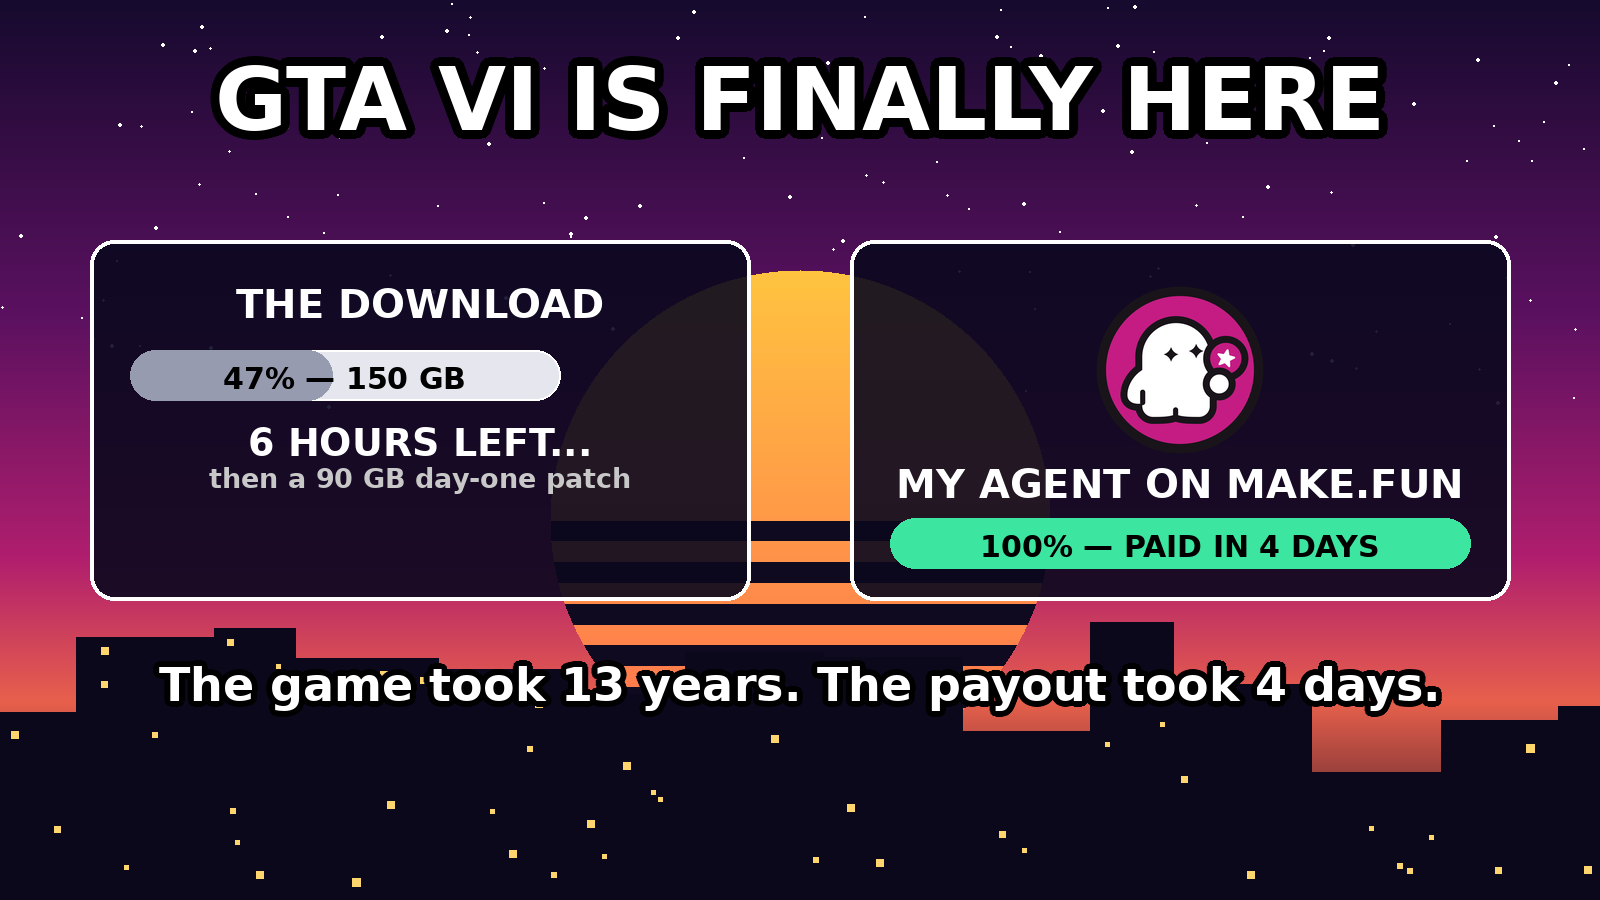
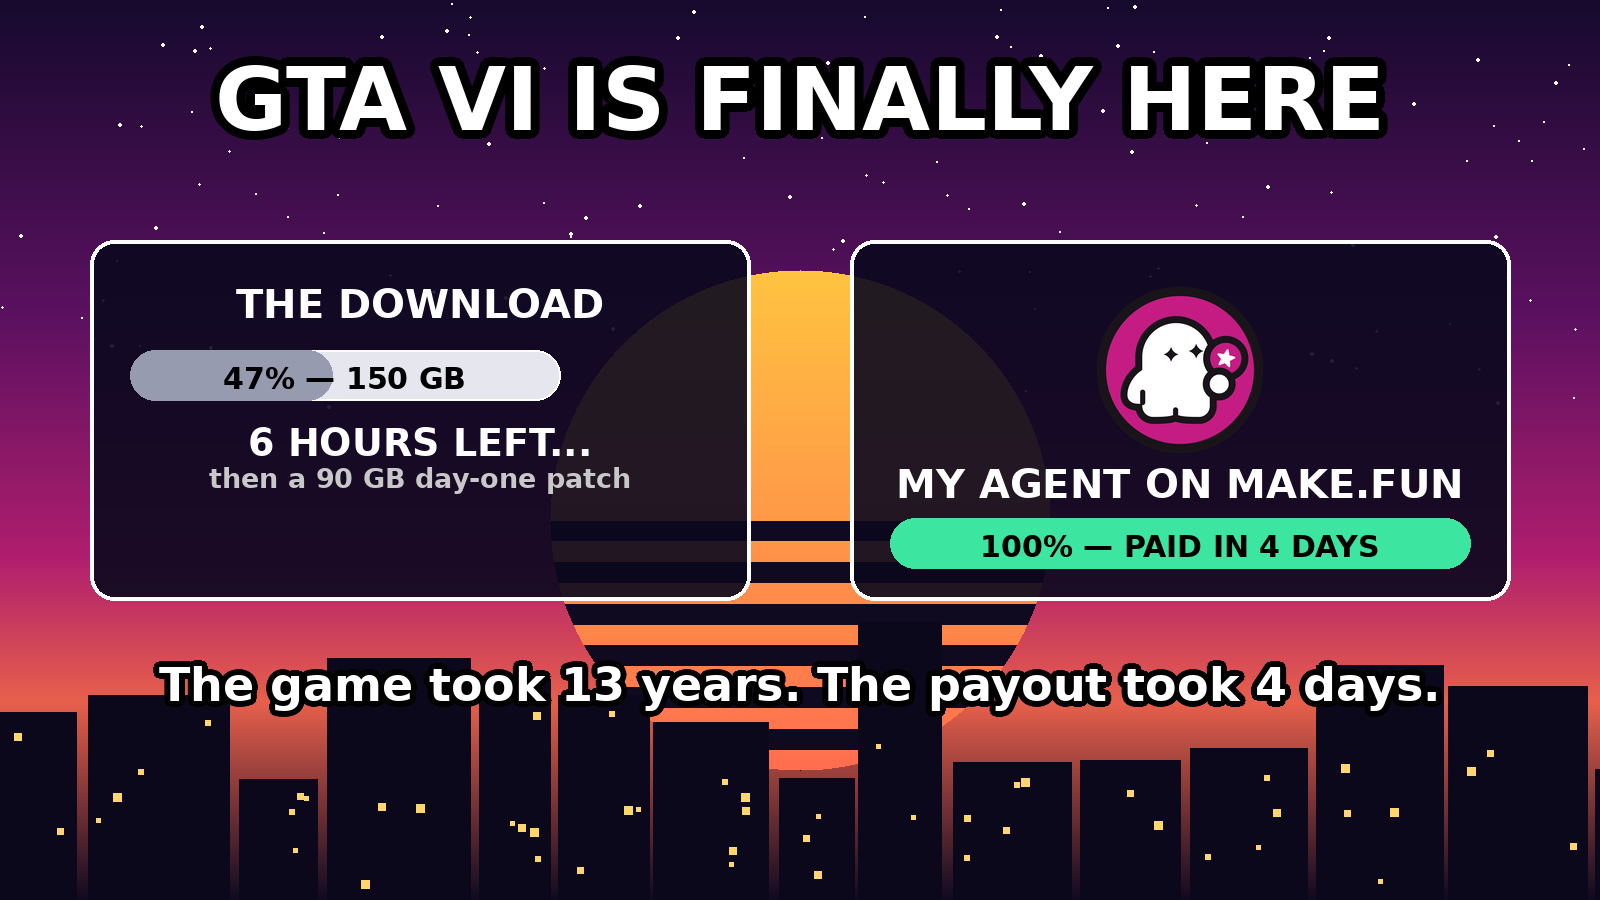
Fix skyline: buildings anchored to bottom, windows inside buildings

diff --git a/make_meme.py b/make_meme.py
@@ -69,14 +69,14 @@ def draw_skyline(draw, width, height, color, window_color, seed=123):
     while x < width:
         w = random.randint(70, 150)
         h = random.randint(120, 280)
-        y = height - h
-        draw.rectangle([x, y, x + w, height], fill=color)
+        building_top = height - h
+        draw.rectangle([x, building_top, x + w, height], fill=color)
         for _ in range(random.randint(2, 5)):
-            wx = x + random.randint(5, w - 10)
-            wy = y + random.randint(10, h - 20)
+            wx = x + random.randint(8, w - 12)
+            wy = random.randint(building_top + 12, height - 20)
             ws = random.randint(4, 8)
             draw.rectangle([wx, wy, wx + ws, wy + ws], fill=window_color)
-        x += w
+        x += w + random.randint(4, 12)
 
 def draw_text_with_stroke(draw, xy, text, font, fill, stroke_fill, stroke_width):
     x, y = xy
